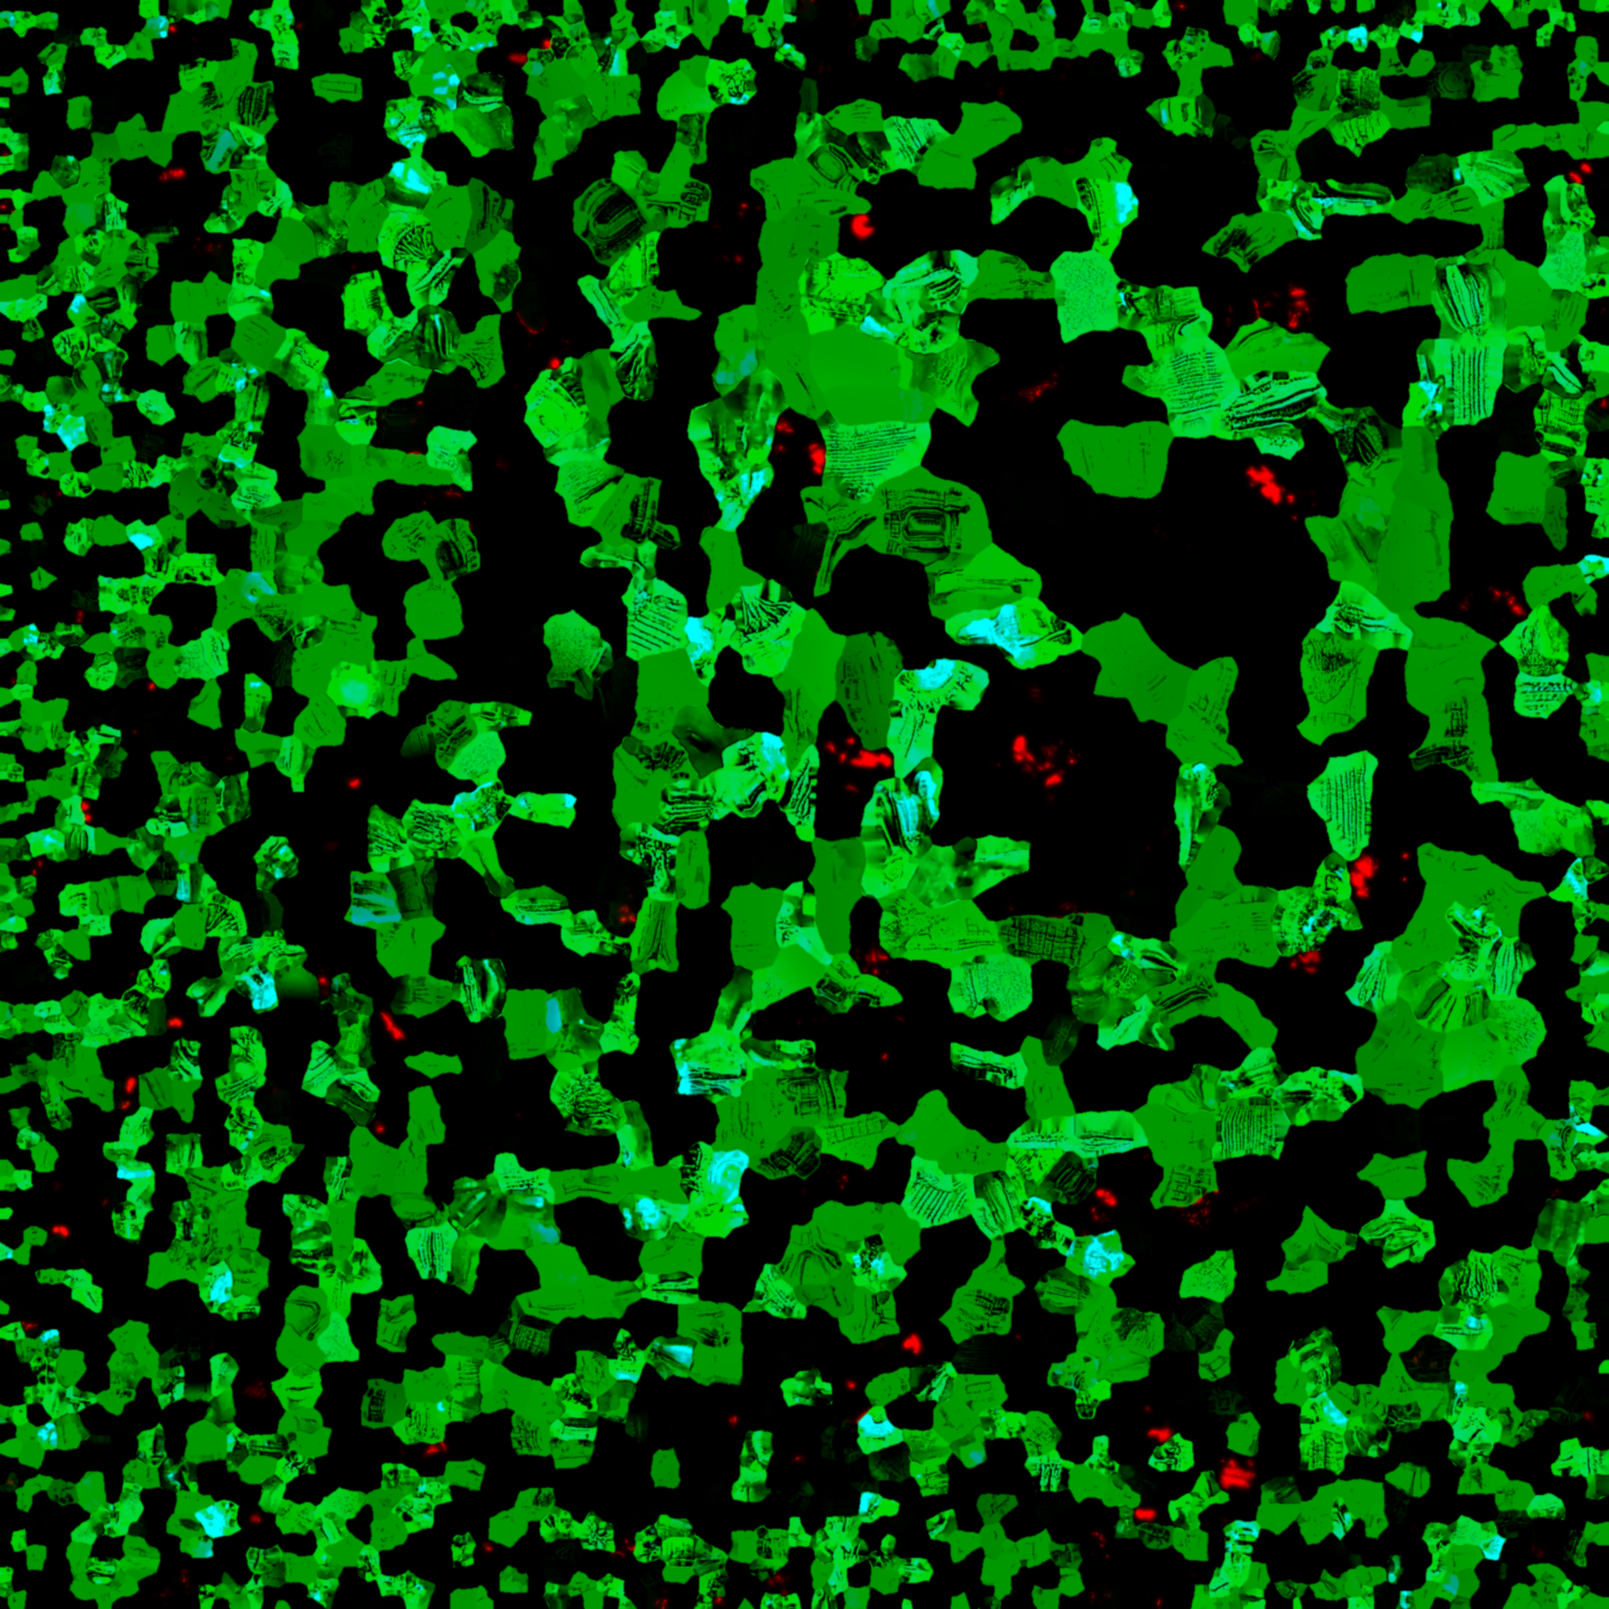
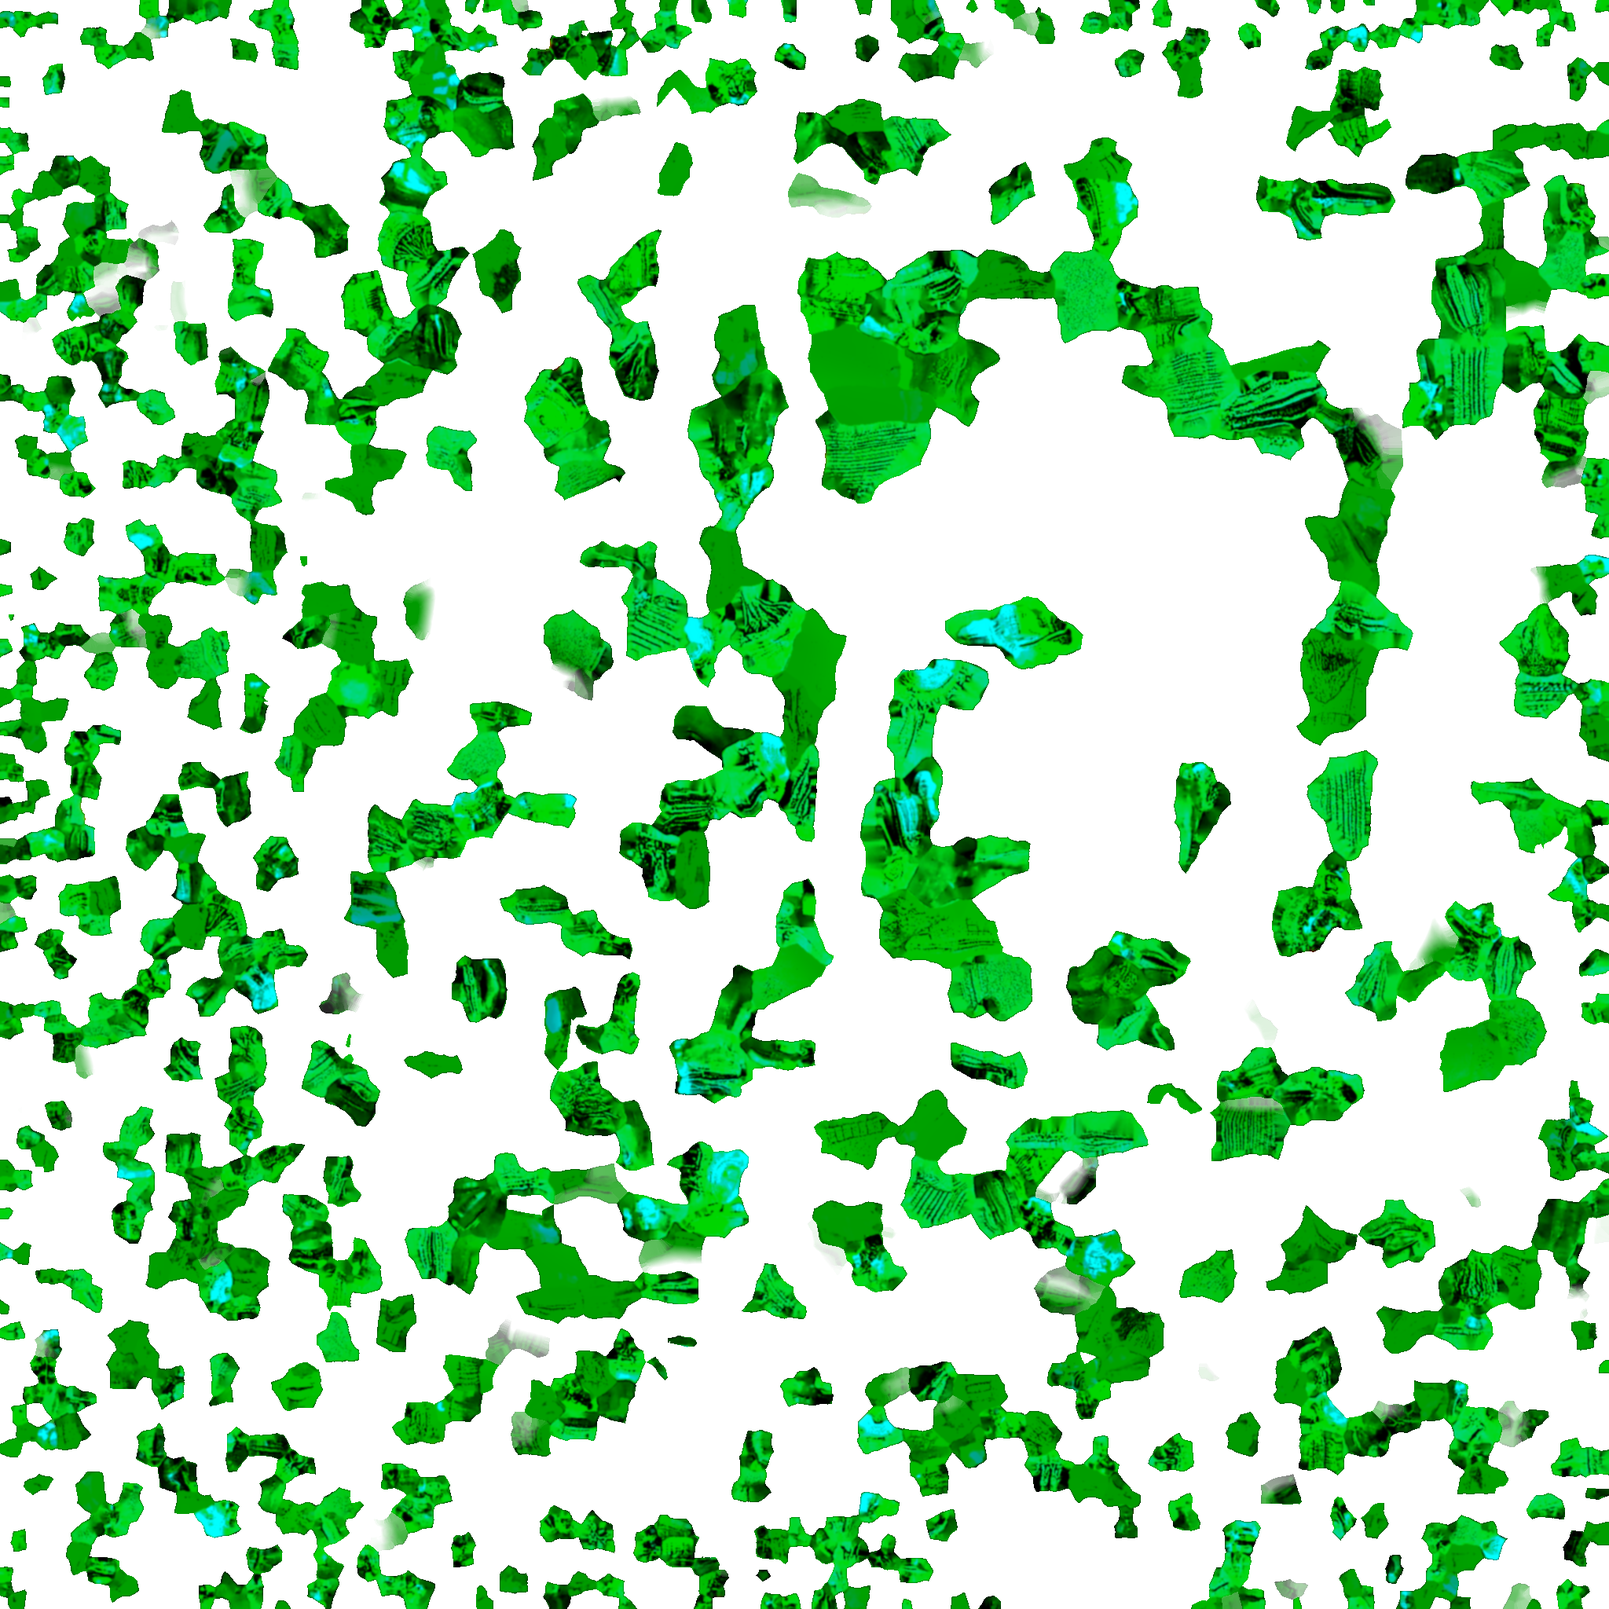
Su tribunu zemini: dunyaya hizali net tas levha, teraslarda ve kule tepelerinde yansitan dalgali su birikintileri
Claude-Session: https://claude.ai/code/session_01BMdADbmSTdie9F1i5Fcpiw

diff --git a/Content/Maps/Arena/ArenaBolgeDoku.py b/Content/Maps/Arena/ArenaBolgeDoku.py
@@ -2,7 +2,10 @@
 # Ates: komurlesmis tas + lav catlaklari, Su: buz mavisi, Toprak: yosunlu tas, Hava: beyaz mermer.
 # Doku: Kaynak/T_ArenaBolge.jpg (araclar ile referans resimden uretildi). Arenanin normal/ORM dokulari ve
 # ArenaDetay'in yakin plan tas detayi aynen kalir; sadece renk dokusu degisir.
-# Maske: Kaynak/T_ArenaBolgeMaske.png  R=lav (isik verir, nabiz gibi atar), G=parlaklik (buz/mermer), B=su isiltisi.
+# Maske: Kaynak/T_ArenaBolgeMaske.png  R=lav (isik verir, nabiz gibi atar), G=parlaklik (buz/mermer), B=su isiltisi,
+#        A=su tribunu zemin bolgesi.
+# Su tribunu zemini: yukari bakan yuzlere dunyaya hizali net tas levha (T_SuZemin_*), yuksek teraslarda ve kule
+# tepelerinde parlayan/yansitan dalgali su birikintileri.
 # Calistirma (Output Log -> Python):
 #   exec(open(unreal.Paths.project_content_dir() + "Maps/Arena/ArenaBolgeDoku.py", encoding="utf-8").read())
 # Geri almak icin arenaya tekrar MI_ArenaTas verilir (dosyanin sonundaki GERI_AL'a bak).
@@ -99,7 +102,26 @@ def maske_dokusu():
     return d
 
 
-def malzeme(renk, normal, orm, detay_d, detay_n, maske):
+def zemin_dokulari():
+    """Su tribunu zemin dokulari; biri eksikse zemin katmani atlanir."""
+    dosyalar = [("T_SuZemin_D.png", "renk"), ("T_SuZemin_N.png", "normal"), ("T_SuZemin_R.png", "lineer"),
+                ("T_SuZemin_Birikinti.png", "lineer"), ("T_SuZemin_Dalga.png", "normal")]
+    sonuc = []
+    for dosya, tur in dosyalar:
+        d = aktar(dosya)
+        if not d:
+            log("   %s yok - su tribunu zemini eklenmeyecek" % dosya)
+            return None
+        d.set_editor_property("srgb", tur == "renk")
+        if tur == "normal":
+            d.set_editor_property("compression_settings", unreal.TextureCompressionSettings.TC_NORMALMAP)
+        d.set_editor_property("lod_group", unreal.TextureGroup.TEXTUREGROUP_WORLD)
+        eal.save_loaded_asset(d)
+        sonuc.append(d)
+    return sonuc
+
+
+def malzeme(renk, normal, orm, detay_d, detay_n, maske, zemin=None):
     """M_ArenaTas ile ayni yapi, renk dokusu degistirilebilir parametre (Renk)."""
     yol = HEDEF + "/M_ArenaBolge"
     if eal.does_asset_exist(yol):
@@ -131,6 +153,50 @@ def malzeme(renk, normal, orm, detay_d, detay_n, maske):
         bag(b, cb, e, "B")
         return e
 
+    def sabit(v, x, y):
+        e = ifade(unreal.MaterialExpressionConstant, x, y)
+        e.set_editor_property("r", v)
+        return e
+
+    def topla(a, b, x, y, ca="", cb=""):
+        e = ifade(unreal.MaterialExpressionAdd, x, y)
+        bag(a, ca, e, "A")
+        bag(b, cb, e, "B")
+        return e
+
+    def karis(a, b, alfa, x, y, ca="", cb="", calfa=""):
+        e = ifade(unreal.MaterialExpressionLinearInterpolate, x, y)
+        bag(a, ca, e, "A")
+        bag(b, cb, e, "B")
+        bag(alfa, calfa, e, "Alpha")
+        return e
+
+    def doygun(a, x, y, ca=""):
+        e = ifade(unreal.MaterialExpressionSaturate, x, y)
+        bag(a, ca, e, "")
+        return e
+
+    def vek3(r, g, b, x, y):
+        e = ifade(unreal.MaterialExpressionConstant3Vector, x, y)
+        e.set_editor_property("constant", unreal.LinearColor(r, g, b, 0))
+        return e
+
+    def bilesen(a, kanallar, x, y):
+        e = ifade(unreal.MaterialExpressionComponentMask, x, y)
+        for k in kanallar:
+            e.set_editor_property(k, True)
+        bag(a, "", e, "")
+        return e
+
+    def dunyadan_tegete(a, x, y, ca=""):
+        e = ifade(unreal.MaterialExpressionTransform, x, y)
+        e.set_editor_property("transform_source_type", unreal.MaterialVectorCoordTransformSource.TRANSFORMSOURCE_WORLD)
+        e.set_editor_property("transform_type", unreal.MaterialVectorCoordTransform.TRANSFORM_TANGENT)
+        bag(a, ca, e, "")
+        return e
+
+    taban_renk = puruz_son = normal_son = emis_son = None
+
     uv = ifade(unreal.MaterialExpressionTextureCoordinate, -1400, 300)
     duv = carp(uv, skaler("DetayTekrar", 150.0, -1400, 450), -1200, 350)
     guc = skaler("DetayGucu", 1.0, -1000, 650)
@@ -152,7 +218,7 @@ def malzeme(renk, normal, orm, detay_d, detay_n, maske):
         bag(dd2, "", lr, "B")
         bag(alfa, "", lr, "Alpha")
         renk_d = carp(renk_d, lr, -300, -300)
-    mel.connect_material_property(renk_d, "", unreal.MaterialProperty.MP_BASE_COLOR)
+    taban_renk = renk_d
 
     if orm:
         puruz, puruz_c = doku(orm, ST.SAMPLERTYPE_LINEAR_COLOR, -900, -100), "G"
@@ -160,19 +226,9 @@ def malzeme(renk, normal, orm, detay_d, detay_n, maske):
         puruz, puruz_c = ifade(unreal.MaterialExpressionConstant, -300, -100), ""
         puruz.set_editor_property("r", 0.85)
 
+    t_m = None
     if maske:
         t_m = doku(maske, ST.SAMPLERTYPE_MASKS, -1400, -900)
-
-        def sabit(v, x, y):
-            e = ifade(unreal.MaterialExpressionConstant, x, y)
-            e.set_editor_property("r", v)
-            return e
-
-        def topla(a, b, x, y, ca="", cb=""):
-            e = ifade(unreal.MaterialExpressionAdd, x, y)
-            bag(a, ca, e, "A")
-            bag(b, cb, e, "B")
-            return e
 
         def dalga(hiz, egim, x, y):
             """0..1 arasi zamanla kayan dalga: sin(zaman*hiz + dunya_konumu . egim)"""
@@ -197,14 +253,77 @@ def malzeme(renk, normal, orm, detay_d, detay_n, maske):
         # Su: renk * maske.B * SuIsiltisi * dalga (asagi akan bantlar)
         su = carp(carp(t_renk, t_m, -650, -700, "RGB", "B"), skaler("SuIsiltisi", 1.5, -650, -600), -500, -700)
         su = carp(su, dalga(skaler("SuHiz", 0.8, -1300, -750), (0.0, 0.0, 0.004), -900, -800), -350, -700)
-        mel.connect_material_property(topla(lav, su, -100, -900), "", unreal.MaterialProperty.MP_EMISSIVE_COLOR)
+        emis_son = topla(lav, su, -100, -900)
         # Parlaklik: puruzluluk -> ParlakPuruz (buz/mermer cilali)
         pl = ifade(unreal.MaterialExpressionLinearInterpolate, -300, -150)
         bag(puruz, puruz_c, pl, "A")
         bag(skaler("ParlakPuruz", 0.22, -500, -150), "", pl, "B")
         bag(t_m, "G", pl, "Alpha")
         puruz, puruz_c = pl, ""
-    mel.connect_material_property(puruz, puruz_c, unreal.MaterialProperty.MP_ROUGHNESS)
+    puruz_son = (puruz, puruz_c)
+
+    def su_zemini(zemin, t_m, renk_in, puruz_in, normal_in, emis_in):
+        """Yukari bakan su tribunu yuzeyleri: net tas levha + yuksekte parlayan dalgali su birikintisi."""
+        zD, zN, zR, zB, zW = zemin
+        X = 1800
+        wp = ifade(unreal.MaterialExpressionWorldPosition, X - 1000, 1200)
+        wxy = bilesen(wp, ("r", "g"), X - 850, 1200)
+        wz = bilesen(wp, ("b",), X - 850, 1350)
+        zuv = carp(wxy, sabit(1.0 / 400.0, X - 850, 1280), X - 700, 1200)          # levha dokusu 4 m'de bir tekrar
+        t_zd = doku(zD, ST.SAMPLERTYPE_COLOR, X - 500, 1000)
+        t_zn = doku(zN, ST.SAMPLERTYPE_NORMAL, X - 500, 1200)
+        t_zr = doku(zR, ST.SAMPLERTYPE_LINEAR_COLOR, X - 500, 1400)
+        for t in (t_zd, t_zn, t_zr):
+            bag(zuv, "", t, "UVs")
+        t_zb = doku(zB, ST.SAMPLERTYPE_LINEAR_COLOR, X - 500, 1600)
+        bag(carp(wxy, sabit(1.0 / 3000.0, X - 850, 1600), X - 700, 1600), "", t_zb, "UVs")
+        # zemin agirligi: bolge (maske.A) * yukari bakma * ZeminGucu
+        nz = bilesen(ifade(unreal.MaterialExpressionVertexNormalWS, X - 1000, 1800), ("b",), X - 850, 1800)
+        yukari = doygun(carp(topla(nz, sabit(-0.7, X - 850, 1880), X - 700, 1800), sabit(6.0, X - 700, 1880), X - 550, 1800), X - 400, 1800)
+        fw = carp(carp(yukari, t_m, X - 250, 1800, "", "A"), skaler("ZeminGucu", 1.0, X - 250, 1900), X - 100, 1800)
+        # birikinti: gurultu + yukseklik (teraslar ve kule tepeleri daha cok su tutar)
+        hb = doygun(carp(topla(wz, sabit(-3400.0, X - 700, 1430), X - 550, 1350), sabit(1.0 / 300.0, X - 550, 1430), X - 400, 1350), X - 250, 1350)
+        bn = topla(topla(t_zb, carp(hb, sabit(0.7, X - 250, 1450), X - 100, 1400), X + 50, 1500, "R"),
+                   carp(skaler("BirikintiEsik", 0.68, X - 100, 1650), sabit(-1.0, X - 100, 1720), X + 50, 1650), X + 200, 1550)
+        pud = carp(doygun(carp(bn, sabit(3.0, X + 200, 1650), X + 350, 1550), X + 500, 1550), fw, X + 650, 1600)
+        # renk
+        zrenk = carp(t_zd, skaler("ZeminParlaklik", 1.0, X - 300, 950), X - 150, 1000, "RGB")
+        r = karis(renk_in, zrenk, carp(fw, sabit(0.92, X, 1100), X + 150, 1100), X + 300, 1000)
+        r = karis(r, vek3(0.01, 0.04, 0.07, X + 300, 900), pud, X + 450, 1000)
+        # puruzluluk
+        pr = karis(puruz_in[0], t_zr, fw, X + 300, 1300, puruz_in[1], "R")
+        pr = karis(pr, sabit(0.03, X + 300, 1400), pud, X + 450, 1300)
+        # normal: levha normali dunyadan tegete; birikintide iki yone kayan dalga
+        n_in = normal_in if normal_in else vek3(0.0, 0.0, 1.0, X + 300, 1150)
+        n1 = karis(n_in, dunyadan_tegete(t_zn, X + 150, 1200, "RGB"), fw, X + 450, 1150)
+        zaman = ifade(unreal.MaterialExpressionTime, X - 1000, 2100)
+
+        def kayan(bolen, hx, hy, y):
+            hiz = ifade(unreal.MaterialExpressionConstant2Vector, X - 850, y + 80)
+            hiz.set_editor_property("r", hx)
+            hiz.set_editor_property("g", hy)
+            uvs = topla(carp(wxy, sabit(1.0 / bolen, X - 850, y), X - 700, y), carp(zaman, hiz, X - 700, y + 80), X - 550, y)
+            t = doku(zW, ST.SAMPLERTYPE_NORMAL, X - 400, y)
+            bag(uvs, "", t, "UVs")
+            return t
+        r1 = kayan(300.0, 0.03, 0.02, 2100)
+        r2 = kayan(210.0, -0.02, 0.035, 2300)
+        rg = carp(topla(bilesen(r1, ("r", "g"), X - 250, 2100), bilesen(r2, ("r", "g"), X - 250, 2300), X - 100, 2200),
+                  sabit(0.15, X - 100, 2300), X + 50, 2200)
+        dn = ifade(unreal.MaterialExpressionAppendVector, X + 200, 2200)
+        bag(rg, "", dn, "A")
+        bag(sabit(1.0, X + 50, 2300), "", dn, "B")
+        dnn = ifade(unreal.MaterialExpressionNormalize, X + 350, 2200)
+        bag(dn, "", dnn, "")
+        n2 = karis(n1, dunyadan_tegete(dnn, X + 500, 2200), pud, X + 650, 1150)
+        # birikintide hafif camgobegi isilti (kipirtinin parlak yerlerinde artar)
+        kip = doygun(carp(topla(bilesen(r1, ("r",), X - 250, 2400), sabit(-0.1, X - 250, 2480), X - 100, 2400),
+                          sabit(4.0, X - 100, 2480), X + 50, 2400), X + 200, 2400)
+        isik = carp(carp(vek3(0.05, 0.35, 0.7, X + 200, 2500), carp(topla(sabit(0.18, X + 200, 2600), carp(kip, sabit(0.25, X + 350, 2450), X + 500, 2400),
+                                                                          X + 650, 2450), pud, X + 800, 2450), X + 950, 2450),
+                    skaler("ZeminSuParilti", 1.0, X + 800, 2550), X + 1100, 2450)
+        e = topla(emis_in, isik, X + 1250, 2300) if emis_in else isik
+        return r, (pr, ""), n2, e
 
     if normal or detay_n:
         parcalar = []
@@ -213,9 +332,8 @@ def malzeme(renk, normal, orm, detay_d, detay_n, maske):
         if detay_n:
             t_dn = doku(detay_n, ST.SAMPLERTYPE_NORMAL, -1000, 400)
             bag(duv, "", t_dn, "UVs")
-            maske = ifade(unreal.MaterialExpressionConstant3Vector, -1000, 800)
-            maske.set_editor_property("constant", unreal.LinearColor(1.0, 1.0, 0.0, 0.0))
-            parcalar.append((carp(t_dn, carp(maske, guc, -750, 700), -550, 450, "RGB"), ""))
+            xy = vek3(1.0, 1.0, 0.0, -1000, 800)
+            parcalar.append((carp(t_dn, carp(xy, guc, -750, 700), -550, 450, "RGB"), ""))
         son, cikis = parcalar[0]
         if len(parcalar) == 2:
             top = ifade(unreal.MaterialExpressionAdd, -350, 350)
@@ -224,7 +342,18 @@ def malzeme(renk, normal, orm, detay_d, detay_n, maske):
             son, cikis = top, ""
         nrm = ifade(unreal.MaterialExpressionNormalize, -150, 350)
         bag(son, cikis, nrm, "")
-        mel.connect_material_property(nrm, "", unreal.MaterialProperty.MP_NORMAL)
+        normal_son = nrm
+
+    if t_m and zemin:
+        zemin_katmani = su_zemini(zemin, t_m, taban_renk, puruz_son, normal_son, emis_son)
+        taban_renk, puruz_son, normal_son, emis_son = zemin_katmani
+
+    mel.connect_material_property(taban_renk, "", unreal.MaterialProperty.MP_BASE_COLOR)
+    mel.connect_material_property(puruz_son[0], puruz_son[1], unreal.MaterialProperty.MP_ROUGHNESS)
+    if normal_son:
+        mel.connect_material_property(normal_son, "", unreal.MaterialProperty.MP_NORMAL)
+    if emis_son:
+        mel.connect_material_property(emis_son, "", unreal.MaterialProperty.MP_EMISSIVE_COLOR)
 
     mel.layout_material_expressions(mat)
     mel.recompile_material(mat)
@@ -249,8 +378,10 @@ def calistir():
                                          "var" if detay_d else "yok"))
 
     maske = maske_dokusu()
+    zemin = zemin_dokulari() if maske else None
+    log("   su tribunu zemini: %s" % ("var" if zemin else "yok"))
     log("2/3 Malzeme: M_ArenaBolge")
-    mat = malzeme(renk, normal, orm, detay_d, detay_n, maske)
+    mat = malzeme(renk, normal, orm, detay_d, detay_n, maske, zemin)
     mi_yol = HEDEF + "/MI_ArenaBolge"
     mi = eal.load_asset(mi_yol) if eal.does_asset_exist(mi_yol) else \
         tools.create_asset("MI_ArenaBolge", HEDEF, unreal.MaterialInstanceConstant, unreal.MaterialInstanceConstantFactoryNew())
@@ -264,7 +395,7 @@ def calistir():
     log("3/3 Arenaya ataniyor...")
     malzeme_ata(aktor, sm, mi)
     les.save_current_level()
-    log("TAMAM - Arena bolgelere gore boyandi. Ayar: " + mi_yol + " (Parlaklik, LavGucu, LavHiz, SuIsiltisi, SuHiz, ParlakPuruz, DetayTekrar, DetayGucu)")
+    log("TAMAM - Arena bolgelere gore boyandi. Ayar: " + mi_yol + " (Parlaklik, LavGucu, LavHiz, SuIsiltisi, SuHiz, ParlakPuruz, DetayTekrar, DetayGucu, ZeminGucu, ZeminParlaklik, BirikintiEsik, ZeminSuParilti)")
 
 
 calistir()

diff --git a/araclar/bolge_doku/zemin_doku.py b/araclar/bolge_doku/zemin_doku.py
@@ -1,0 +1,63 @@
+# Su tribunu zemini: dikissiz tas levha dokulari (4 m x 4 m) + birikinti maskesi + dalga normali
+import numpy as np
+from PIL import Image
+from scipy import ndimage as nd
+rng=np.random.default_rng(21)
+S=2048;M=4.0;px=S/M                       # piksel / metre
+def fbm(n,olc,okt=5,tohum=0):
+    r=np.random.default_rng(tohum);o=np.zeros((n,n));a=1;t=0
+    fx=np.fft.fftfreq(n)[None,:];fy=np.fft.fftfreq(n)[:,None];f=np.hypot(fx,fy)
+    for k in range(okt):
+        w=np.exp(-(f*n/(olc*2**k))**2/2)-np.exp(-(f*n/(olc*2**(k-1)))**2/2) if k else np.exp(-(f*n/olc)**2/2)
+        o+=a*np.real(np.fft.ifft2(np.fft.fft2(r.standard_normal((n,n)))*w));t+=a;a*=.55
+    o=(o-o.min())/(o.max()-o.min());return o
+# --- levha duzeni (yatay siralar, kayan derzler) ---
+sira=0.5;nsira=int(M/sira);boylar=[.6,.8,1.0,1.2]
+lab=np.zeros((S,S),np.int32);kenar=np.full((S,S),9.0)
+yy,xx=np.mgrid[0:S,0:S]/px
+k=0;dmin=np.full((S,S),9.0)
+for r_ in range(nsira):
+    y0=r_*sira;y1=y0+sira
+    seg=[];t=0
+    while t<M-1e-6:
+        b=rng.choice(boylar)
+        if M-t-b<.55 and M-t-b>1e-6: b=M-t
+        seg.append((t,min(b,M-t)));t+=b
+    off=rng.uniform(0,M)
+    satir=(yy>=y0)&(yy<y1)
+    for (s0,b) in seg:
+        x0=(s0+off)%M
+        xr=(xx-x0)%M
+        icin=satir&(xr<b)
+        lab[icin]=k
+        d=np.minimum.reduce([xr,b-xr,yy-y0,y1-yy])
+        dmin[icin]=d[icin];k+=1
+derz=0.006;pah=0.025
+h=np.clip((dmin-derz)/pah,0,1);h=np.sqrt(h)                    # pahli kenar
+v_=rng.uniform(-1,1,k);renk_s=v_[:,None]*np.array([7,7,7])+np.array([108,111,116])   # notr gri, az fark
+yuk_s=rng.uniform(-.25,.25,k)                                  # levhalar hafif farkli yukseklikte
+tane=fbm(S,60,5,1);ince=fbm(S,300,3,2);leke=fbm(S,8,4,3)
+renk=renk_s[lab]*(.72+.5*tane[...,None])*(.82+.3*leke[...,None])
+kir_ao=1-.22*np.clip((.05-dmin)/.05,0,1)               # derz yaninda kir/golge
+renk=renk*kir_ao[...,None]
+derzrenk=np.array([48,52,58.])
+renk=renk*h[...,None]+derzrenk*(1-h[...,None])
+# kenarlarda buz/kirag i
+kir=np.clip((pah*2-dmin)/(pah*2),0,1)*np.clip((ince-.5)*3,0,1)*.6     # kenarlarda hafif asinma/kirag
+renk=renk*(1-kir[...,None]*.35)+np.array([150,160,172])*kir[...,None]*.35
+Image.fromarray(np.clip(renk,0,255).astype(np.uint8)).save('T_SuZemin_D.png')
+H=h*(1+yuk_s[lab]*.3)+tane*.08+ince*.03
+gx=(np.roll(H,-1,1)-np.roll(H,1,1));gy=(np.roll(H,-1,0)-np.roll(H,1,0))
+n=np.dstack([-gx*6,-gy*6,np.ones_like(H)]);n/=np.linalg.norm(n,axis=2,keepdims=True)
+Image.fromarray(((n*.5+.5)*255).astype(np.uint8)).save('T_SuZemin_N.png')
+rough=np.clip(.62+.15*(tane-.5)+.25*(1-h)-.25*kir,0,1)
+Image.fromarray((rough*255).astype(np.uint8)).save('T_SuZemin_R.png')
+# --- birikinti maskesi (20 m'lik dikissiz) ---
+b=fbm(1024,3,2,7);b=nd.gaussian_filter(b,6,mode='wrap');b=(b-b.min())/(b.max()-b.min())
+Image.fromarray((b*255).astype(np.uint8)).save('T_SuZemin_Birikinti.png')
+# --- dalga normali (yumusak halkasi/kipirtilar) ---
+w=fbm(512,24,3,9)
+gx=(np.roll(w,-1,1)-np.roll(w,1,1));gy=(np.roll(w,-1,0)-np.roll(w,1,0))
+n=np.dstack([-gx*25,-gy*25,np.ones_like(w)]);n/=np.linalg.norm(n,axis=2,keepdims=True)
+Image.fromarray(((n*.5+.5)*255).astype(np.uint8)).save('T_SuZemin_Dalga.png')
+print('levha',k)

diff --git a/Content/Maps/BENIOKU.md b/Content/Maps/BENIOKU.md
@@ -41,3 +41,8 @@ Ayar: `/Game/Maps/Arena/Selale/MI_Selale_Govde`, `_Serpinti`, `_Sis` (Parlaklik,
 Kulelerden akan dereler: su tribunundeki kuleler yukseklik haritasindan bulunur (`araclar/bolge_doku/kule.py`); sahaya bakan
 yuzlerin tepesinden baslayan dereler yercekimiyle duvari izler, cikintidan dokulur, tribune degdiginde biter (`akinti.py`).
 Tribunlere ve kulelerin arka yuzlerine su eklenmez.
+
+## Su tribunu zemini (ArenaBolgeDoku.py icinde)
+Su tribununun yukari bakan yuzeylerine dunyaya hizali net tas levha (Kaynak/T_SuZemin_D/N/R, 4 m'de bir tekrar),
+yuksek teraslarda ve kule tepelerinde yansitan, dalgalanan, hafif parlayan su birikintileri. Kopruler ve orta platform haric.
+Ayar: MI_ArenaBolge -> ZeminGucu (0 = kapali), ZeminParlaklik, BirikintiEsik (kucuk = daha cok su), ZeminSuParilti.

diff --git a/araclar/bolge_doku/BENIOKU.md b/araclar/bolge_doku/BENIOKU.md
@@ -9,3 +9,4 @@
 6. `selale.py` (+`kamera.py`): referanstaki selale noktalarini kameradan arenaya isinlayip duvari takip eden su perdeleri uretir -> SM_Selale.glb.
 7. `selale2.py` + `selale_doku.py`: hacimli surum (govde/serpinti/sis) ve dikissiz akis + dalga normali dokulari.
 8. `kule.py` + `yuzey.py` + `akinti.py`: su tribunu kulelerinin sahadan gorunen yuzleri, kulelerden akan 3D dereler ve ince su tabakasi (selale2.py bunlari SM_Selale.glb'ye ekler).
+9. `zemin_doku.py`: su tribunu zemini icin dikissiz tas levha (renk/normal/puruz), birikinti gurultusu, dalga normali; bolge maskesinin alfa kanali = su tribunu zemin bolgesi.
